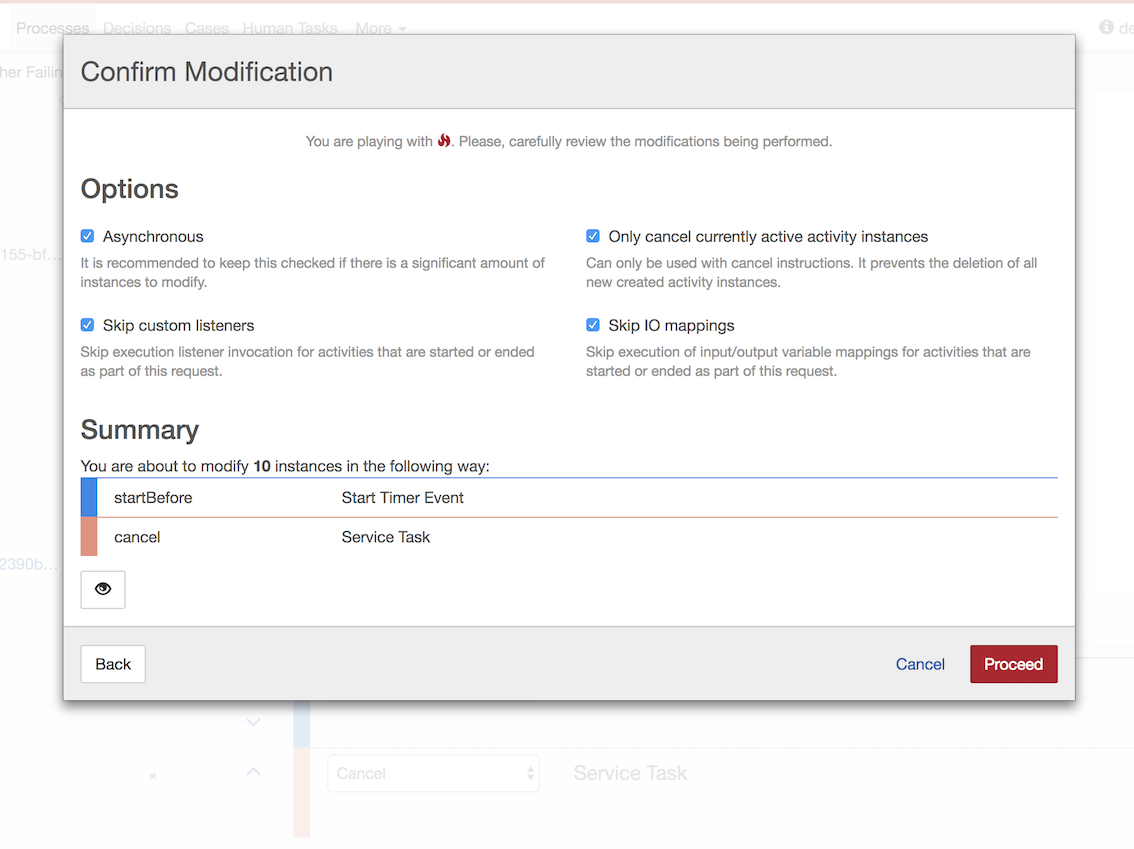
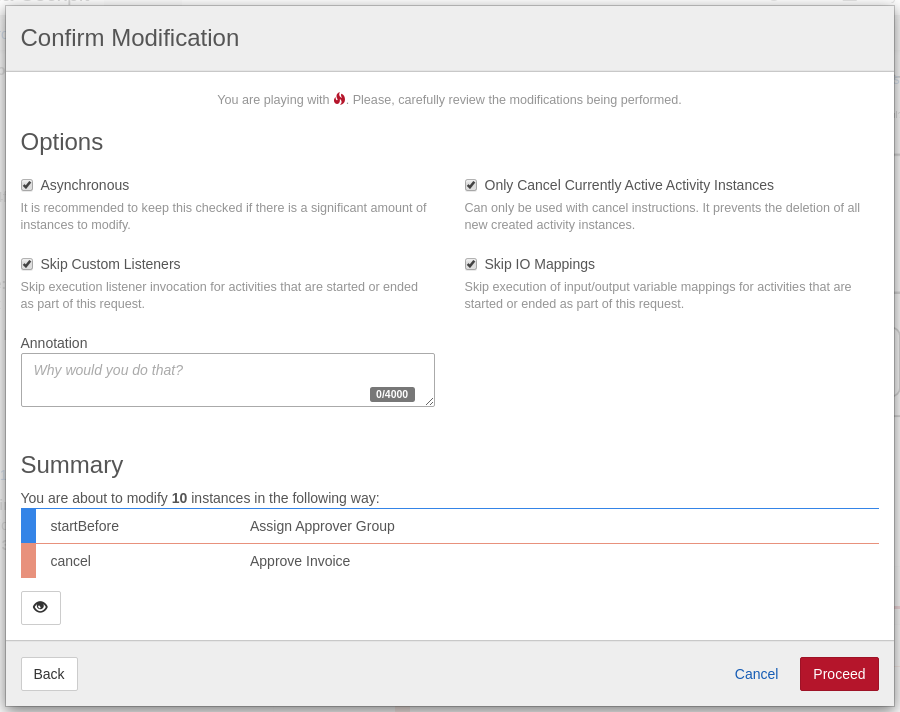
chore(docs): update modification Dialog Screenshots
related to CAM-10866

Changed region(s): [[0.0, 0.0, 1.0, 1.0]]

diff --git a/content/webapps/cockpit/bpmn/process-instance-modification.md b/content/webapps/cockpit/bpmn/process-instance-modification.md
@@ -65,35 +65,35 @@ When starting activities with a multi-instance flag, there is the option to eith
 
 At any point during the creation of the modification, you can show the payload of the modification by clicking the {{< glyphicon name="eye-open" >}} button. This will show the request payload that will be sent via the [REST API]({{< ref "/reference/rest/_index.md" >}}).
 
-To perform the modification, you have to click on *Apply modifications*. Then you have a last chance to review the changes you are about to make and also review the request payload. You have an option to execute an *Asynchronous* modification. After confirming the change, the modification is executed and the page is updated with the new execution state of the process instance.
+To perform the modification, you have to click on *Apply modifications*. Then you have a last chance to review the changes you are about to make and also review the request payload. You have an option to execute an *Asynchronous* modification and to add an annotation which will be added to the user operation log. After confirming the change, the modification is executed and the page is updated with the new execution state of the process instance.
 
 {{< note title="Semantics of Process Instance Modification" class="warning">}}
   The exact semantics of process instance modification as well as the underlying REST and Java API can be read about in the [Process Instance Modification section]({{< ref "/user-guide/process-engine/process-instance-modification.md" >}}) of the user guide.
 {{< /note >}}
 
-# Perform a Batch Modification 
+# Perform a Batch Modification
 
 {{< img src="../../img/cockpit-batch-modification-view.png" title="Batch Modification View" >}}
 
 
-When multiple process instances are required to be modified the batch modification feature can be used. To perform batch modifications, you need to click on the *Modify* tab in the process definition view. 
+When multiple process instances are required to be modified the batch modification feature can be used. To perform batch modifications, you need to click on the *Modify* tab in the process definition view.
 
 {{< img src="../../img/cockpit-batch-modification-detail.png" title="Batch Modification Detail View" >}}
 
 
-The batch modification operation is handled similarly to the modification of a single process instance. 
-    
+The batch modification operation is handled similarly to the modification of a single process instance.
+
 {{< img src="../../img/cockpit-batch-modification-instance-selection.png" title="Instance Selection" >}}
 
 
-However, to get to the *Apply Modifications* modal first you have to click *Select Instances* which opens another modal which allows you to select the process instances the modification should be applied to. Note, in order to find the relevant instances, you can apply filters. When you have made your selection click on  *Modify Selected Instances*. This leads you to the *Apply Modification* modal.  
+However, to get to the *Apply Modifications* modal first you have to click *Select Instances* which opens another modal which allows you to select the process instances the modification should be applied to. Note, in order to find the relevant instances, you can apply filters. When you have made your selection click on  *Modify Selected Instances*. This leads you to the *Apply Modification* modal.
 
 
 {{< img src="../../img/cockpit-batch-modification-options.png" title="Additions Options" >}}
 
 
 Here you have two additional options to select - *Asynchronous* and *Only Cancel Currently Active Activity Instances*. By default both options are checked.
- 
+
 It is recommended to keep *Asynchronous* ticked when you want to process a large number of instances. Otherwise, unchecking the box allows you to process the batch in a synchronous manner.
 
-The second option, *Only Cancel Currently Active Activity Instances*, only concerns modification operations which contain cancel instructions. This option prevents activity instances which are newly created during the modification operation to be instantly canceled by the same operation again.      
+The second option, *Only Cancel Currently Active Activity Instances*, only concerns modification operations which contain cancel instructions. This option prevents activity instances which are newly created during the modification operation to be instantly canceled by the same operation again.
